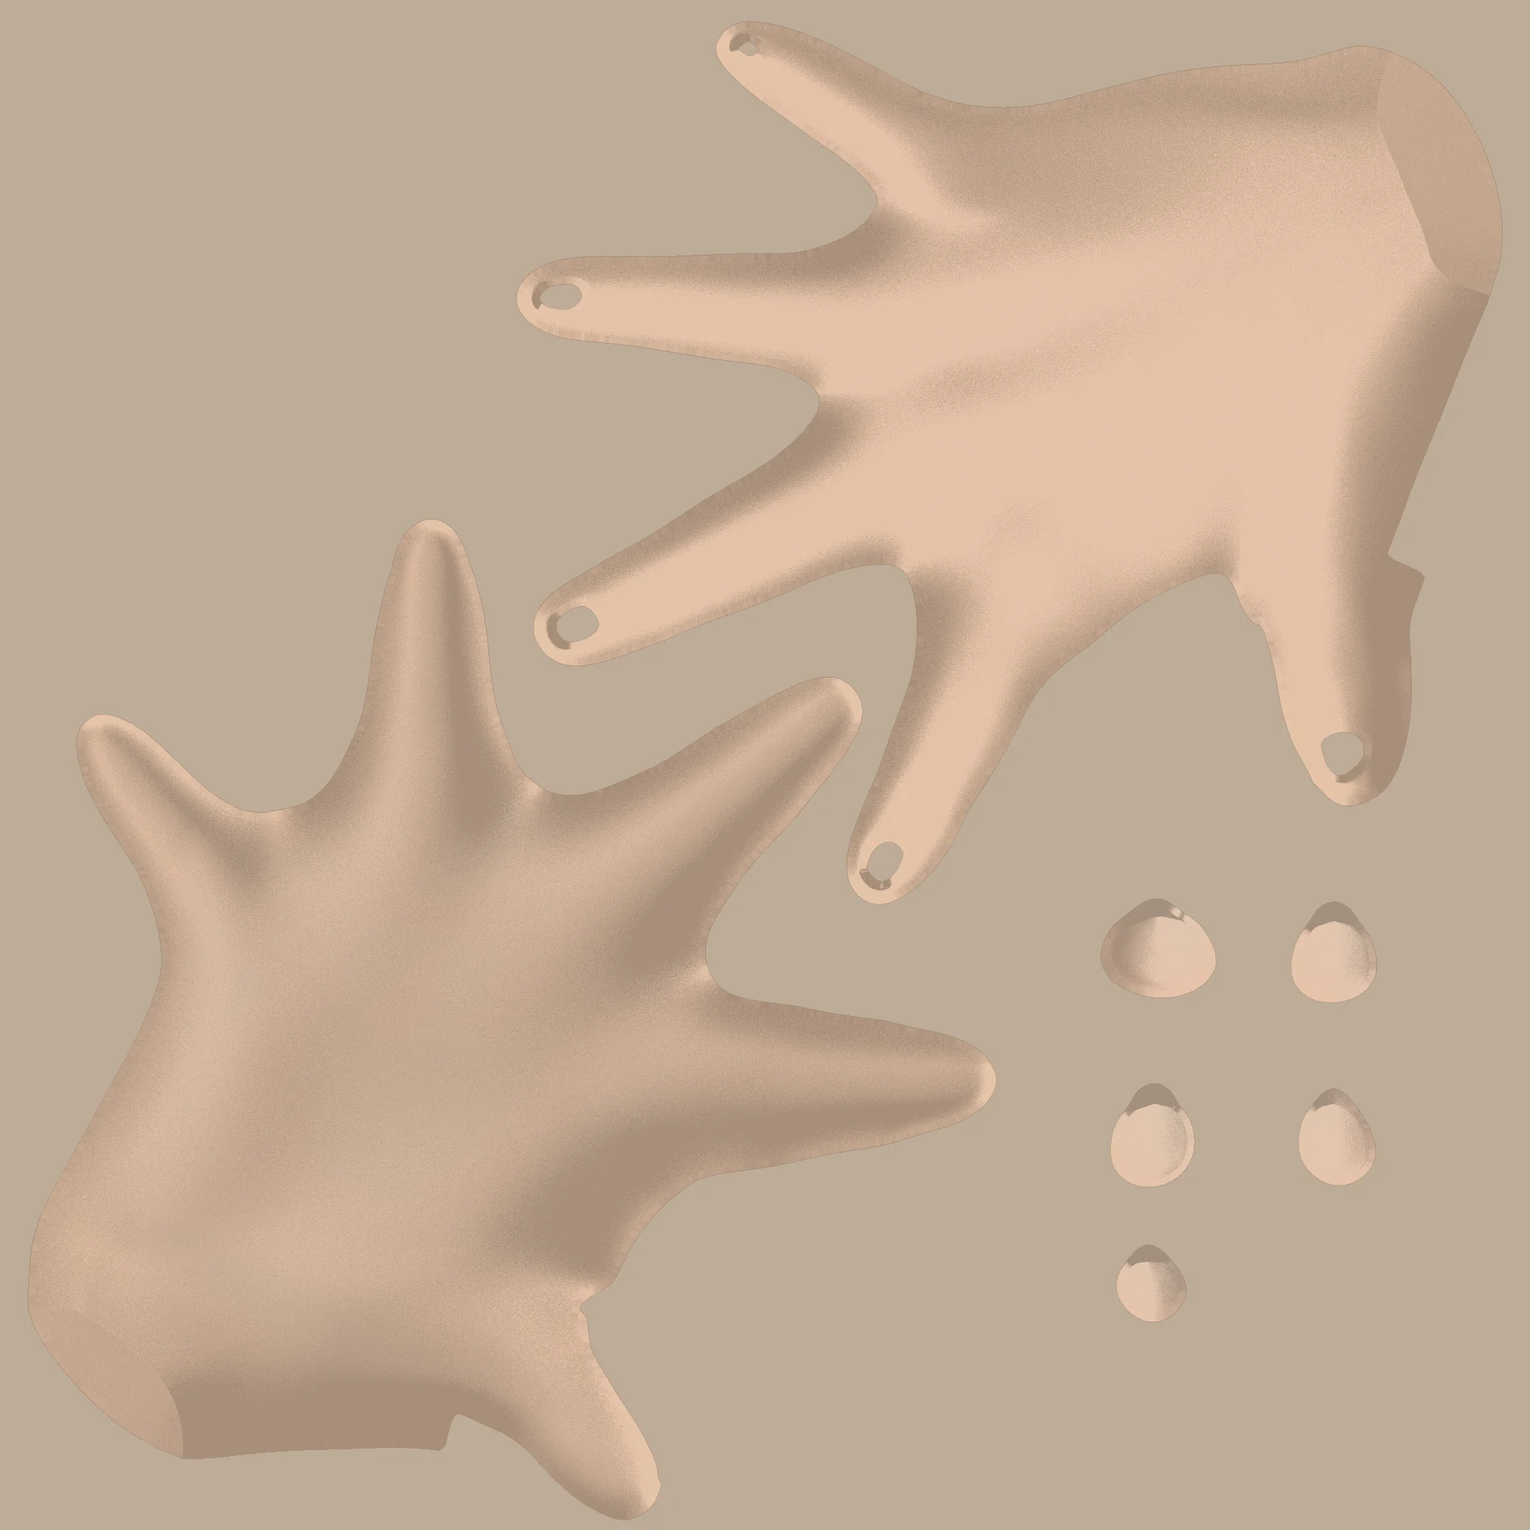
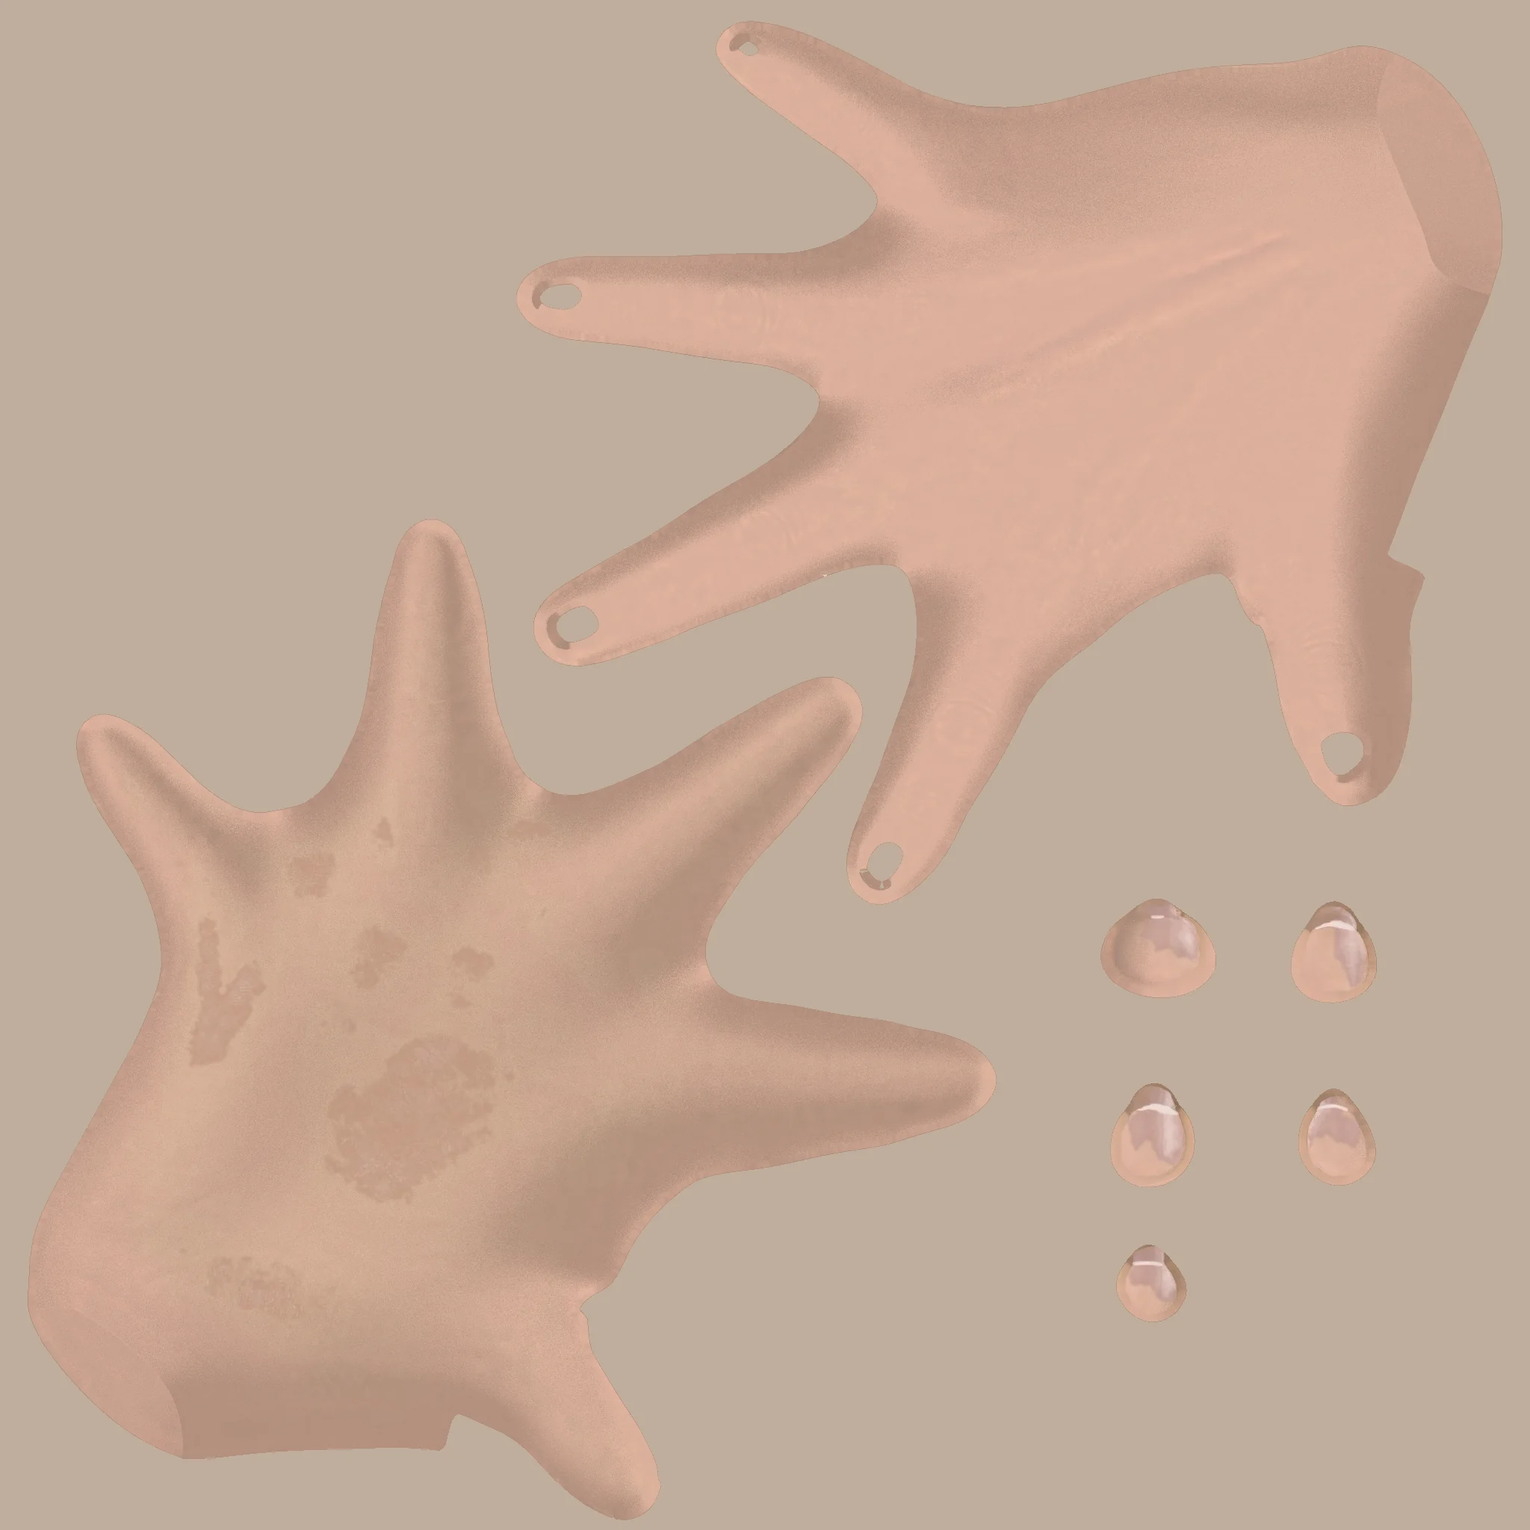
Hands: restore Studio detail and lengthen the arm fade
Studio keeps a light peach with pores, creases and nails at a lower contrast,
plus a warm rim where the silhouette thins. The forearm fades over about 14 cm.
The knuckle soften feathers out, so the thumb no longer has a patch line.

diff --git a/src/hands/studioSkin.ts b/src/hands/studioSkin.ts
@@ -1,12 +1,12 @@
-// Studio hand. The colour is a Cycles bake of Elena's mesh, graded to a light peach
-// with the pores and knuckle cavities washed out (public/hands/elena/studio.webp).
-// It does not read the scene lights, the HDRI, or the lighting controls. Matte has
-// nothing glossy to remove. The skin-tone swatch still tints the bake. A pale fresnel
-// blooms the silhouette, and the wrist cuff fades into a light haze.
+// Studio hand. The colour is a Cycles bake of Elena's mesh graded to a light peach
+// (public/hands/elena/studio.webp), with pores, creases and nails kept at a lower
+// contrast than Realistic. It does not read the scene lights, the HDRI, or the
+// lighting controls. A warm rim stands in for light through the thin edges. The
+// forearm is the same lathe as Realistic, unlit, and fades out over most of its length.
 import * as THREE from 'three'
 import { toneGain, type SkinTone } from './realisticSkin'
 
-export const STUDIO_URL = '/hands/elena/studio.webp?v=5'
+export const STUDIO_URL = '/hands/elena/studio.webp?v=6'
 
 export function prepareStudioMap(map: THREE.Texture) {
   map.colorSpace = THREE.SRGBColorSpace
@@ -14,8 +14,29 @@ export function prepareStudioMap(map: THREE.Texture) {
   map.needsUpdate = true
 }
 
+const STUDIO_HEAD = `attribute float aArm;
+varying float vArm;
+varying vec3 vStudioN;
+varying vec3 vStudioW;
+`
+const STUDIO_VERT = `#include <project_vertex>
+vStudioN = normalize(mat3(modelMatrix) * objectNormal);
+vStudioW = (modelMatrix * vec4(transformed, 1.0)).xyz;`
+
+// Warm light through the silhouette, plus a faint haze. One extra pow, no extra pass,
+// so the PNG export (a straight copy of the canvas) includes it.
+const STUDIO_GLOW = `
+float studioNdV = clamp(dot(normalize(vStudioN), normalize(cameraPosition - vStudioW)), 0.0, 1.0);
+float studioRim = pow(1.0 - studioNdV, 1.55);
+float studioTransmit = pow(1.0 - studioNdV, 2.6);
+gl_FragColor.rgb += vec3(1.0, 0.40, 0.18) * studioTransmit * 0.62;
+gl_FragColor.rgb += vec3(1.0, 0.70, 0.55) * studioRim * 0.20;
+gl_FragColor.rgb += vec3(1.0, 0.94, 0.88) * pow(1.0 - studioNdV, 1.1) * 0.06;
+`
+
 export function studioHandMaterial(tone: SkinTone, map: THREE.Texture) {
   const fadeFrom = { value: 0 }
+  const fadeSpan = { value: 0.12 }
   const mat = new THREE.MeshBasicMaterial({
     map,
     color: toneGain(tone.color),
@@ -24,31 +45,55 @@ export function studioHandMaterial(tone: SkinTone, map: THREE.Texture) {
     toneMapped: false,
   })
   mat.userData.fadeFrom = fadeFrom
+  mat.userData.fadeSpan = fadeSpan
   mat.onBeforeCompile = (shader) => {
     shader.uniforms.uFadeFrom = fadeFrom
-    shader.vertexShader = `attribute float aArm;\nvarying float vArm;\nvarying vec3 vStudioN;\nvarying vec3 vStudioW;\n` + shader.vertexShader
+    shader.uniforms.uFadeSpan = fadeSpan
+    shader.vertexShader = STUDIO_HEAD + shader.vertexShader
       .replace('#include <begin_vertex>', '#include <begin_vertex>\nvArm = aArm;')
-      .replace(
-        '#include <project_vertex>',
-        `#include <project_vertex>
-vStudioN = normalize(mat3(modelMatrix) * objectNormal);
-vStudioW = (modelMatrix * vec4(transformed, 1.0)).xyz;`,
-      )
-    shader.fragmentShader = `uniform float uFadeFrom;\nvarying float vArm;\nvarying vec3 vStudioN;\nvarying vec3 vStudioW;\n` + shader.fragmentShader.replace(
+      .replace('#include <project_vertex>', STUDIO_VERT)
+    shader.fragmentShader = `uniform float uFadeFrom;\nuniform float uFadeSpan;\nvarying float vArm;\nvarying vec3 vStudioN;\nvarying vec3 vStudioW;\n` + shader.fragmentShader.replace(
       '#include <dithering_fragment>',
       `#include <dithering_fragment>
-float studioNdV = clamp(dot(normalize(vStudioN), normalize(cameraPosition - vStudioW)), 0.0, 1.0);
-float studioRim = pow(1.0 - studioNdV, 1.35);
-// Pale peach bloom along the silhouette, so the edge goes soft instead of cutting.
-gl_FragColor.rgb += vec3(1.0, 0.94, 0.88) * studioRim * 0.26;
-gl_FragColor.rgb += vec3(0.98, 0.93, 0.88) * studioRim * studioRim * 0.10;
-// The cuff is only the mesh past the wrist. It fades into a light haze, then out.
-float cuff = smoothstep(uFadeFrom, uFadeFrom + 0.12, vArm);
-gl_FragColor.rgb = mix(gl_FragColor.rgb, vec3(0.96, 0.93, 0.90), clamp(cuff * 1.05, 0.0, 0.85));
+${STUDIO_GLOW}
+float cuff = smoothstep(uFadeFrom, uFadeFrom + uFadeSpan, vArm);
+gl_FragColor.rgb = mix(gl_FragColor.rgb, vec3(0.96, 0.93, 0.90), clamp(cuff, 0.0, 0.75));
 gl_FragColor.a *= 1.0 - cuff;
 if (gl_FragColor.a < 0.02) discard;`,
     )
   }
-  mat.customProgramCacheKey = () => 'om-elena-studio-3'
+  mat.customProgramCacheKey = () => 'om-elena-studio-5'
+  return mat
+}
+
+/** Unlit forearm. The tile is lifted toward the peach bake, and it fades over about 14 cm. */
+export function studioArmMaterial(tone: SkinTone, map: THREE.Texture) {
+  const mat = new THREE.MeshBasicMaterial({
+    map,
+    color: toneGain(tone.color),
+    transparent: true,
+    depthWrite: true,
+    toneMapped: false,
+  })
+  mat.onBeforeCompile = (shader) => {
+    shader.vertexShader = STUDIO_HEAD + shader.vertexShader
+      .replace('#include <begin_vertex>', '#include <begin_vertex>\nvArm = aArm;')
+      .replace('#include <project_vertex>', STUDIO_VERT)
+    shader.fragmentShader = `varying float vArm;\nvarying vec3 vStudioN;\nvarying vec3 vStudioW;\n` + shader.fragmentShader.replace(
+      '#include <dithering_fragment>',
+      `#include <dithering_fragment>
+vec3 armSrc = gl_FragColor.rgb;
+float armL = dot(armSrc, vec3(0.30, 0.50, 0.20));
+vec3 armChroma = armSrc / max(armL, 1e-3);
+float armLift = mix(0.40, armL, 0.32);
+gl_FragColor.rgb = armLift * mix(vec3(1.24, 1.02, 0.86), armChroma, 0.36);
+${STUDIO_GLOW}
+float along = smoothstep(0.06, 1.35, vArm);
+gl_FragColor.rgb = mix(gl_FragColor.rgb, vec3(0.95, 0.91, 0.88), clamp(along * 0.7, 0.0, 0.72));
+gl_FragColor.a *= 1.0 - along;
+if (gl_FragColor.a < 0.02) discard;`,
+    )
+  }
+  mat.customProgramCacheKey = () => 'om-elena-studio-arm-2'
   return mat
 }

diff --git a/src/hands/Hands.tsx b/src/hands/Hands.tsx
@@ -64,7 +64,7 @@ export const poseOk = (f: HandFit | null | undefined, p: HandPose) => p === 'off
 
 import { HAND_LOOK0, nailGeometry, nailMaterial, type HandLook, type NailFit } from './nails'
 import { ARM_URLS, ELENA_URLS, prepareArmMaps, prepareSkinMaps, realisticArmMaterial, realisticHandMaterial } from './realisticSkin'
-import { STUDIO_URL, prepareStudioMap, studioHandMaterial } from './studioSkin'
+import { STUDIO_URL, prepareStudioMap, studioArmMaterial, studioHandMaterial } from './studioSkin'
 const URL_R = '/hands/right.glb', URL_L = '/hands/left.glb'
 const ELENA_R = '/hands/elena/right.glb', ELENA_L = '/hands/elena/left.glb'
 const HAND_SCALE = 10 * 1.05   // asset is in metres; 1.05 gives an average adult hand, about 180 mm wrist to fingertip
@@ -978,7 +978,11 @@ function Hands({ pose, tone, fit, gesture, sp, rot, idle, look }: { pose: HandPo
     if (realistic) return realisticHandMaterial(toneRec, skinTex)
     return skinMaterial(tone)
   }, [tone, spm, realistic, studio, skinTex, studioTex, toneRec])
-  const armMat = useMemo(() => realistic ? realisticArmMaterial(toneRec, armTex) : null, [realistic, toneRec, armTex])
+  const armMat = useMemo(() => {
+    if (studio) return studioArmMaterial(toneRec, armTex[0])
+    if (realistic) return realisticArmMaterial(toneRec, armTex)
+    return null
+  }, [studio, realistic, toneRec, armTex])
   useEffect(() => () => { if (!spm) mat.dispose() }, [mat, spm])
   useEffect(() => () => { armMat?.dispose() }, [armMat])
   // live uniforms: tint, transparency and the three effects
@@ -1026,10 +1030,10 @@ function Hands({ pose, tone, fit, gesture, sp, rot, idle, look }: { pose: HandPo
   const lastRep = useRef('')
   const arms = useMemo(() => ({ right: new THREE.Mesh(forearmGeometry()), left: new THREE.Mesh(forearmGeometry()) }), [])
   useLayoutEffect(() => {
-    const geo = realistic ? forearmSkinGeometry() : forearmGeometry()
+    const geo = elena ? forearmSkinGeometry() : forearmGeometry()
     arms.right.geometry = geo
     arms.left.geometry = geo
-  }, [arms, realistic])
+  }, [arms, elena])
   // Arm off: the forearm is hidden and the hand itself fades out over the 19 mm its mesh runs past the wrist joint
   // (aArm, 0 at the joint, 0.2 at the open rim), so there is no overlap band and the open rim is fully clear. Photo and
   // Sketch (whose hands keep the skin material) take a copy of the skin with that fade; Spectral fades by uniform.
@@ -1040,12 +1044,16 @@ function Hands({ pose, tone, fit, gesture, sp, rot, idle, look }: { pose: HandPo
   fadeFrom.value = armOff ? 0 : 0.08
   const realisticFade = mat.userData.fadeFrom as { value: number } | undefined
   const realisticMask = mat.userData.maskAmt as { value: number } | undefined
-  // Studio has no forearm. Its bake fades the cuff into the background instead.
+  // Studio wears the same forearm tube and fades it over most of its length.
   // Realistic, arm on: the cuff stays opaque until its open rim, where it fades into
   // the skinned forearm (aArm is 0 at the wrist and about 0.12 at the rim). The palm
   // stays opaque. Arm off fades from the wrist, as before. Classic keeps its own cloned fade material.
   if (studio) {
-    if (realisticFade) realisticFade.value = 0
+    // Arm on: the hand stays opaque and the forearm carries the long fade. Arm off
+    // still dissolves the short cuff, because there is no tube to continue it.
+    const studioSpan = mat.userData.fadeSpan as { value: number } | undefined
+    if (realisticFade) realisticFade.value = armOff ? 0 : 0.09
+    if (studioSpan) studioSpan.value = armOff ? 0.12 : 0.03
     if (!mat.transparent) { mat.transparent = true; mat.depthWrite = true; mat.needsUpdate = true }
   } else if (realistic) {
     // aArm is about 0.12 at the rim. Only that last few millimetres fade, where the
@@ -1089,7 +1097,7 @@ function Hands({ pose, tone, fit, gesture, sp, rot, idle, look }: { pose: HandPo
         for (let k = 1, flat = nailLen; nailsOn && k <= 4 && (r.root.userData.nailClear ?? 1) < need; k++) {
           flat += 0.3; pl = { ...mk(flat)[li], thumbFace: 0.08 * k }; solve(r, pl, fit, look.size, nailLen); const sc = score(); if (sc < best.s) best = { s: sc, pl } }
         if (best.pl !== pl) { pl = best.pl; solve(r, pl, fit, look.size, nailLen) }
-        solved.current[pl.side] = key; g.add(r.root); placeArm(arms[pl.side], r, realistic ? -0.06 : 0); const wide = realistic ? 1.16 : 1; arms[pl.side].scale.set(build * look.size * wide, look.size, build * look.size * wide); if (!armOff && !studio) g.add(arms[pl.side]); else arms[pl.side].removeFromParent()
+        solved.current[pl.side] = key; g.add(r.root); placeArm(arms[pl.side], r, elena ? -0.06 : 0); const wide = elena ? 1.16 : 1; arms[pl.side].scale.set(build * look.size * wide, look.size, build * look.size * wide); if (!armOff) g.add(arms[pl.side]); else arms[pl.side].removeFromParent()
         const touching = new Set<string>([...(pl.thumb.touch ? ['thumb'] : []), ...pl.fingers.flatMap((f, i) => f.touch ? [FINGERS[i]] : [])])
         m.capture(r.root, r.bones, r.rest, touching, arms[pl.side], animate)
       }

diff --git a/src/hands/realisticSkin.ts b/src/hands/realisticSkin.ts
@@ -5,9 +5,9 @@
 import * as THREE from 'three'
 
 export const ELENA_URLS: string[] = [
-  '/hands/elena/albedo.webp?v=2',
-  '/hands/elena/normal.webp?v=2',
-  '/hands/elena/roughness.webp?v=2',
+  '/hands/elena/albedo.webp?v=3',
+  '/hands/elena/normal.webp?v=3',
+  '/hands/elena/roughness.webp?v=3',
   '/hands/elena/specular.webp',
 ]
 

diff --git a/public/hands/elena/README.md b/public/hands/elena/README.md
@@ -36,12 +36,12 @@ Positive curl still closes toward the palm. That was checked by hinging the midd
 
 UVs are the glTF set, so the textures load with `flipY` off. The forearm is still the procedural lathe; it does not share this unwrap. It samples the forearm tiles with repeat wrapping, on the same physical skin as the hand (roughness, normal scale, sheen, wrapped diffuse). The realistic lathe flares over the open rim and then settles into a slight forearm belly. Only the last few millimetres of the cuff fade, so the palm stays opaque and the two surfaces meet as one arm. Crease occlusion is not baked into the Realistic maps. The earlier procedural skin maps read as blotches, so they are not used.
 
-The dorsal thumb knuckle and the same swirl on the other fingers (each PIP, plus the index and ring DIP) were painted as a tight bullseye. Those UV islands are softened in `albedo.webp`, `normal.webp` and `roughness.webp`: the colour keeps a shallow crease, and the normal's tangent strength in that patch is reduced so the ring reads as a fine line. Palmar creases, nails and the rest of the pores are unchanged. The forearm tiles were cut before this edit and do not include those islands.
+The dorsal thumb knuckle and the same swirl on the other fingers (each PIP, plus the index and ring DIP) were painted as a tight bullseye. Those areas of `albedo.webp`, `normal.webp` and `roughness.webp` keep their pores. Only the wider swirl is reduced, and the change feathers out over a wide band so the patch does not leave a line. Palmar creases and nails are unchanged. The forearm tiles were cut before this edit and do not include those islands.
 
 `MeshPhysicalMaterial` (Realistic) samples colour, normal and roughness. Roughness is high, specular is low, clearcoat is off, and the normal map is scaled down, so the skin reads dry under the studio key. A wrapped diffuse lobe and a small warm backlight stay. Matte still clears specular, sheen and the environment reflection.
 
 ## Studio
 
-`studio.webp` is a lighting bake of this same mesh, so it is CC BY-SA 4.0 as well. Headless Blender 4 Cycles (CPU, no denoiser) lit the open hand with a large soft key, a gentler fill, a dim back light and a little subsurface, and baked the diffuse illumination without the albedo. That factor is compressed so the wrap stays soft. It is applied, in linear light, to a heavily blurred copy of the softened albedo, then graded to a light peach (around sRGB 0.79, 0.67, 0.58 in the midtone) with low saturation. Pores are nearly gone. Nothing is clipped to white. One neutral pose is enough: the light is even, so a curled finger does not pick up a hard shadow from the open-hand bake.
+`studio.webp` is a lighting bake of this same mesh, so it is CC BY-SA 4.0 as well. Headless Blender 4 Cycles (CPU, no denoiser) lit the open hand with a large soft key, a gentler fill, a dim back light and a little subsurface, and baked the diffuse illumination without the albedo. That factor stays low-contrast. It is applied, in linear light, to a light peach, with about a third of the albedo's pore contrast and most of its creases mixed back, and the nail islands kept (pink bed, lighter free edge). The midtone is about sRGB 0.80, 0.65, 0.57. Nothing is clipped to white. One neutral pose is enough: the light is even, so a curled finger does not pick up a hard shadow from the open-hand bake.
 
-In the app, Studio is a `MeshBasicMaterial` (`src/hands/studioSkin.ts`). It does not read the scene lights, the HDRI, or the lighting controls. The skin-tone swatch still tints the bake. A pale peach fresnel blooms the silhouette. The wrist cuff, which is only the mesh past the wrist, fades into a light haze through the existing `aArm` attribute instead of meeting the forearm tube. Matte has nothing glossy to remove. Realistic stays the default.
+In the app, Studio is a `MeshBasicMaterial` (`src/hands/studioSkin.ts`). It does not read the scene lights, the HDRI, or the lighting controls. The skin-tone swatch still tints the bake. A warm fresnel stands in for light passing through the finger edges. The forearm uses the same lathe and pore tile as Realistic, lifted toward the peach, and fades out from just past the wrist to about 14 cm along the arm. Matte has nothing glossy to remove. Realistic stays the default.

diff --git a/README.md b/README.md
@@ -48,7 +48,7 @@ Hand → Appearance → Hand style switches between **Realistic** (the default),
 
 Realistic skin is a `MeshPhysicalMaterial` (`src/hands/realisticSkin.ts`) on Elena FF's mesh, so the orbit camera and the lighting controls (intensity, direction, height, contact shadow, the studio HDRI) still shade the hand. The roughness map is lifted, specular is low, clearcoat is off and the normal map is softened, so the skin stays dry and matte with a little warmth. Matte, in Sketch, still strips sheen, specular and the environment reflection. A wrapped diffuse lobe and a small warm backlight stand in for subsurface scatter. The skin-tone swatches scale the albedo: Fair leaves the texture as painted, and the other swatches shift it.
 
-Studio (`src/hands/studioSkin.ts`) uses the same mesh with a Cycles bake graded to a light peach (`public/hands/elena/studio.webp`): pores are nearly gone, the shading is a soft low-contrast wrap, and a pale fresnel blooms the silhouette. The material is unlit on purpose: scene lights, the HDRI and the lighting controls do not shade it. The wrist cuff fades into a light haze instead of growing a forearm. The skin-tone swatch still tints the bake. Realistic stays the default. The dorsal knuckle swirls in the colour and normal maps are softened locally, on both styles, so those creases stay faint.
+Studio (`src/hands/studioSkin.ts`) uses the same mesh with a Cycles bake graded to a light peach (`public/hands/elena/studio.webp`). Pores, flexion creases and the nails stay, at a lower contrast than Realistic, and a warm rim stands in for light through the thin edges. The material is unlit on purpose: scene lights, the HDRI and the lighting controls do not shade it. The forearm is the same tube as Realistic and fades out over most of its length. The skin-tone swatch still tints the bake. Realistic stays the default. The dorsal knuckle swirls are softened with a wide feather, so the crease stays faint and the patch has no hard edge.
 
 The mesh is "Rigged hand" by Elena FF, about 15.5k vertices and 29k triangles after triangulation. In Blender the deform bones were unparented onto a flat armature (OpenMock poses each joint in armature space), renamed to the WebXR generic-hand bone names, and scaled so the wrist-to-middle-fingertip length matches the classic asset (178 mm). Control bones were dropped; they carried no skin weights. The thumb's extra middle phalanx is posed on its own: the curl is shared, the middle joint stays shallow (a little of its sculpted kink is opened so it does not fold into a slit), and the nail joint stays at a gentle bend so the tip does not fold into the phone. The short base bones stay near the sculpted rest so the knuckle does not collapse. The forearm is the same physical skin as the hand, tiled from a patch of these maps, flared over the cuff. Elena's fingers are thicker than the generic hand, so the contact spheres and the phone grips for that mesh are separate. Classic poses are unchanged. A left hand is the right hand mirrored on X, with the same bone names. See `public/hands/elena/README.md` for the conversion steps, the bake, and the CC BY-SA terms.
 
@@ -61,7 +61,7 @@ The model's sculpted nails are the ones you see. Procedural nail plates stay on 
 | `normal.webp` | The model's tangent-space normal map, with those same knuckles faded. |
 | `roughness.webp` | The model's roughness map, lifted so the skin stays matte, and softened on those knuckles. |
 | `specular.webp` | The model's specular map. Shipped for reference; the material does not sample it. |
-| `studio.webp` | Light-peach Cycles bake of this mesh. CC BY-SA, because it is derived from the model. |
+| `studio.webp` | Light-peach Cycles bake, with softened pores, creases and nails. CC BY-SA, because it is derived from the model. |
 | `forearm-albedo.webp`, `forearm-normal.webp`, `forearm-roughness.webp` | Seamless skin tile for the forearm, cut from the hand maps. CC BY-SA. |
 
 ### Photoreal hands (ComfyUI)
